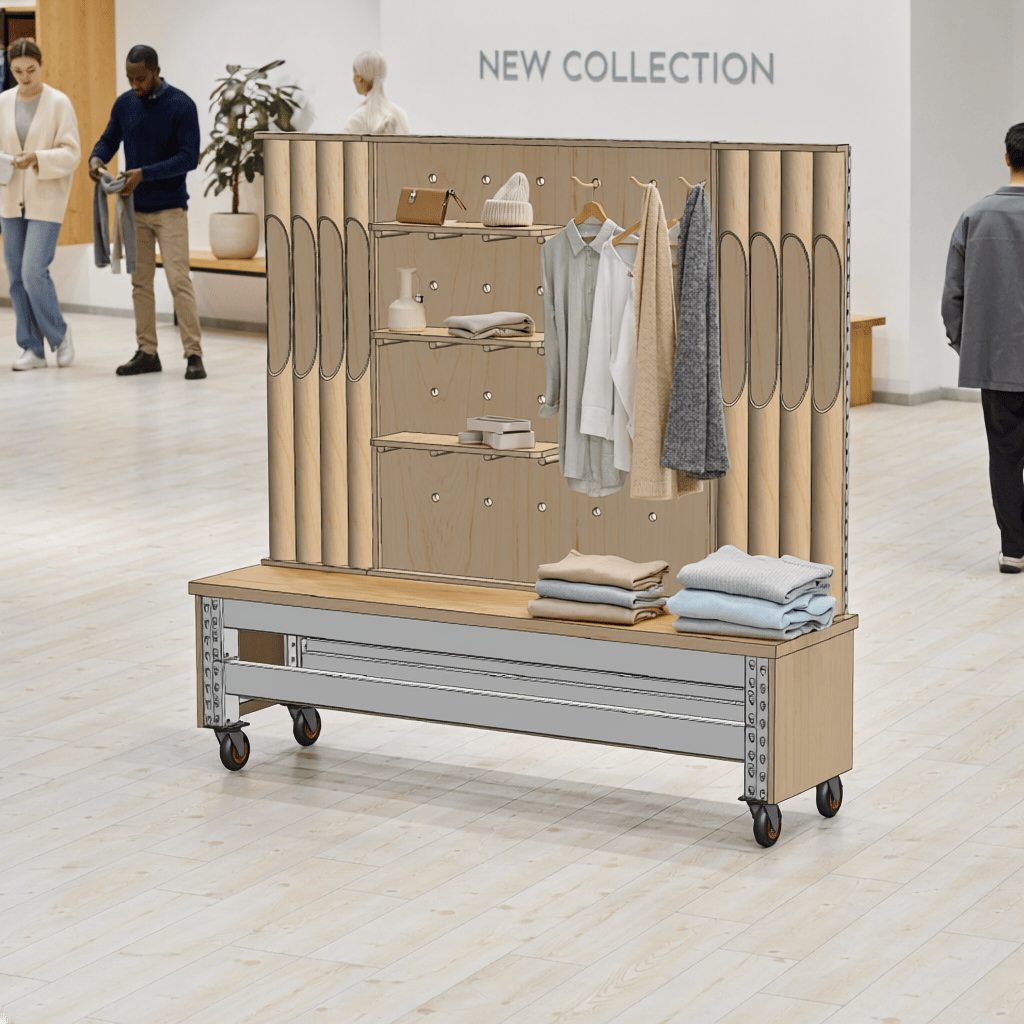
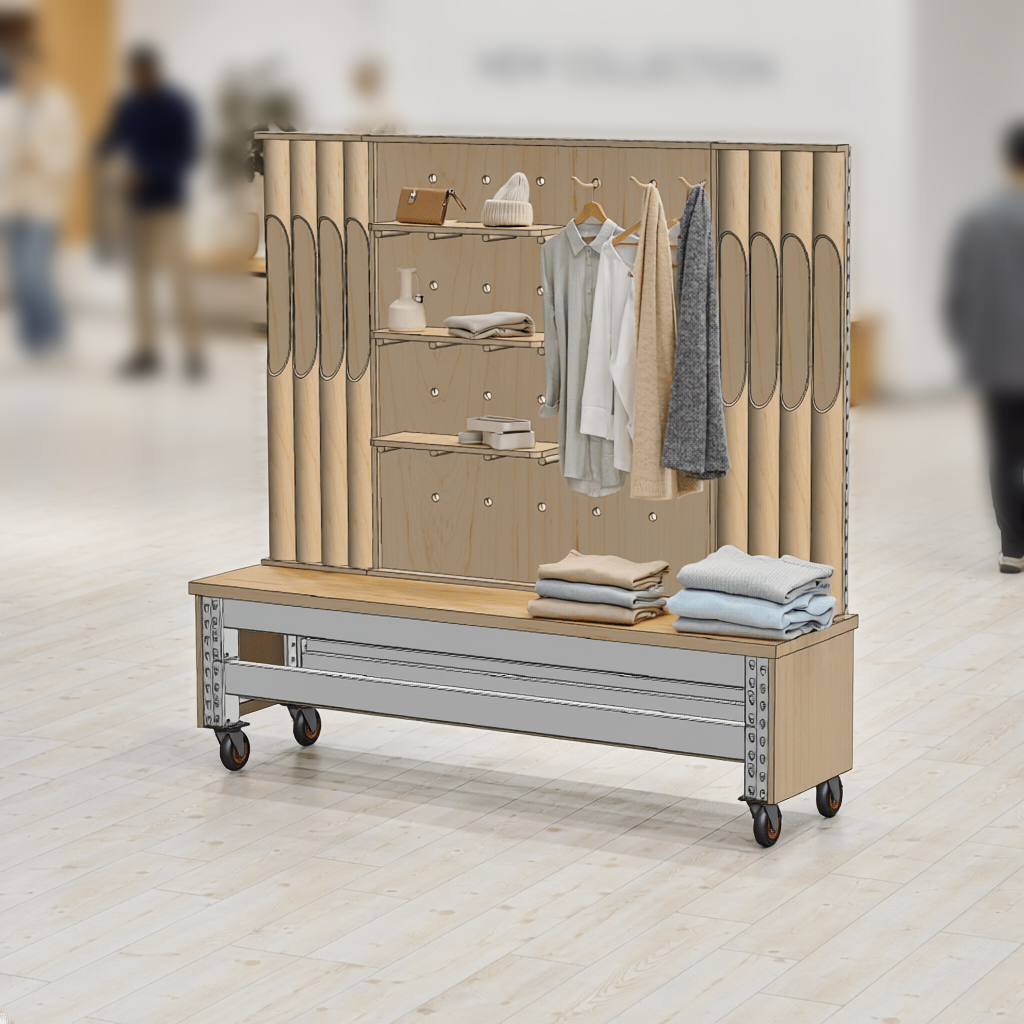
Mobilier : arrière-plan flouté (profondeur de champ) pour masquer les visages IA
Le meuble et le sol du premier plan restent nets ; les personnes en fond sont floutées
sur les 6 images de mise en situation.

Claude-Session: https://claude.ai/code/session_01FKFqK337QXd13vxEJ79W3Y

diff --git a/images/WEB/mobilier/index.html b/images/WEB/mobilier/index.html
@@ -2392,22 +2392,22 @@
                 </button>
                 <div class="gallery-carousel-track">
                     <div class="gallery-item">
-                        <img src="images/situation/etagere1.png" alt="Étagère 1">
+                        <img src="images/situation/etagere1.png?v=2" alt="Étagère 1">
                     </div>
                     <div class="gallery-item">
-                        <img src="images/situation/comptoir1.png" alt="Comptoir 1">
+                        <img src="images/situation/comptoir1.png?v=2" alt="Comptoir 1">
                     </div>
                     <div class="gallery-item">
-                        <img src="images/situation/rack1.png" alt="Rack 1">
+                        <img src="images/situation/rack1.png?v=2" alt="Rack 1">
                     </div>
                     <div class="gallery-item">
-                        <img src="images/situation/etagere2.png" alt="Étagère 2">
+                        <img src="images/situation/etagere2.png?v=2" alt="Étagère 2">
                     </div>
                     <div class="gallery-item">
-                        <img src="images/situation/rack2.png" alt="Rack 2">
+                        <img src="images/situation/rack2.png?v=2" alt="Rack 2">
                     </div>
                     <div class="gallery-item">
-                        <img src="images/situation/comptoir2.png" alt="Comptoir 2">
+                        <img src="images/situation/comptoir2.png?v=2" alt="Comptoir 2">
                     </div>
                 </div>
                 <button class="gallery-nav next" id="galleryNext">

diff --git a/images/WEB/mobilier/index-en.html b/images/WEB/mobilier/index-en.html
@@ -2376,22 +2376,22 @@
                 </button>
                 <div class="gallery-carousel-track">
                     <div class="gallery-item">
-                        <img src="images/situation/etagere1.png" alt="Shelving 1">
+                        <img src="images/situation/etagere1.png?v=2" alt="Shelving 1">
                     </div>
                     <div class="gallery-item">
-                        <img src="images/situation/comptoir1.png" alt="Counter 1">
+                        <img src="images/situation/comptoir1.png?v=2" alt="Counter 1">
                     </div>
                     <div class="gallery-item">
-                        <img src="images/situation/rack1.png" alt="Rack 1">
+                        <img src="images/situation/rack1.png?v=2" alt="Rack 1">
                     </div>
                     <div class="gallery-item">
-                        <img src="images/situation/etagere2.png" alt="Shelving 2">
+                        <img src="images/situation/etagere2.png?v=2" alt="Shelving 2">
                     </div>
                     <div class="gallery-item">
-                        <img src="images/situation/rack2.png" alt="Rack 2">
+                        <img src="images/situation/rack2.png?v=2" alt="Rack 2">
                     </div>
                     <div class="gallery-item">
-                        <img src="images/situation/comptoir2.png" alt="Counter 2">
+                        <img src="images/situation/comptoir2.png?v=2" alt="Counter 2">
                     </div>
                 </div>
                 <button class="gallery-nav next" id="galleryNext">
